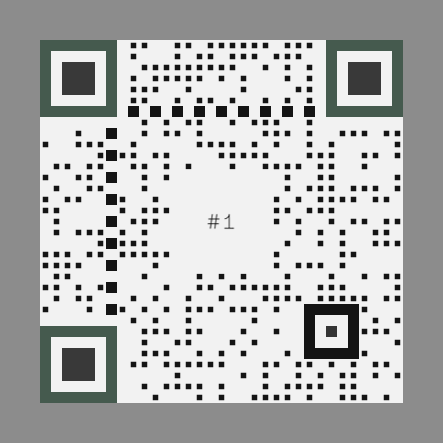
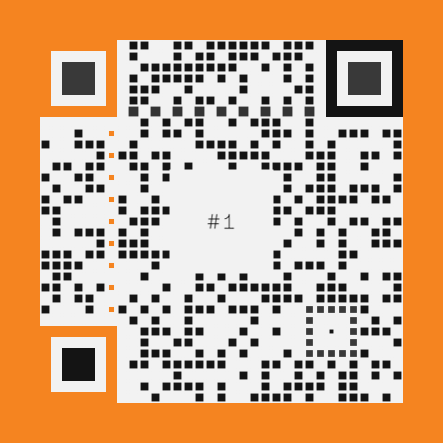
More randomness

diff --git a/packages/pixels/create.js b/packages/pixels/create.js
@@ -30,7 +30,7 @@ const amount = 1;
     const stream = canvas.createPNGStream()
     stream.pipe(out)
     out.on('finish', () => {
-        let colors = shuffle(['#f58420', '#455a4e', '#8c8c8c', '#343434', '#393939', '#141414'])
+        let colors = shuffle(['#f58420', '#455a4e', '#343434', '#393939', '#141414'])
 
         let options_object = {
             // ====== Basic
@@ -41,7 +41,26 @@ const amount = 1;
             colorLight : "#f2f2f2",
             autoColor: true,
             correctLevel : QRCode.CorrectLevel.H, // L, M, Q, H
-            dotScale: 0.5,
+
+            dotScale: Math.random(),
+            dotScaleTiming: Math.random(),
+            dotScaleA: Math.random(),
+            dotScaleTiming_H:Math.random(),
+            dotScaleTiming_V:Math.random(),
+            dotScaleAO:Math.random(),
+            dotScaleAI:Math.random(),
+
+            PO_TL: colors[~~(Math.random() * colors.length)],
+            PI_TL: colors[~~(Math.random() * colors.length)],
+            PO_TR: colors[~~(Math.random() * colors.length)],
+            PI_TR: colors[~~(Math.random() * colors.length)],
+            PO_BL: colors[~~(Math.random() * colors.length)],
+            PI_BL: colors[~~(Math.random() * colors.length)],
+
+            timing: colors[~~(Math.random() * colors.length)],
+            timing_H: colors[~~(Math.random() * colors.length)],
+            timing_V: colors[~~(Math.random() * colors.length)],
+
             quietZone: 40,
             quietZoneColor: colors[0],
             PO: colors[1],
